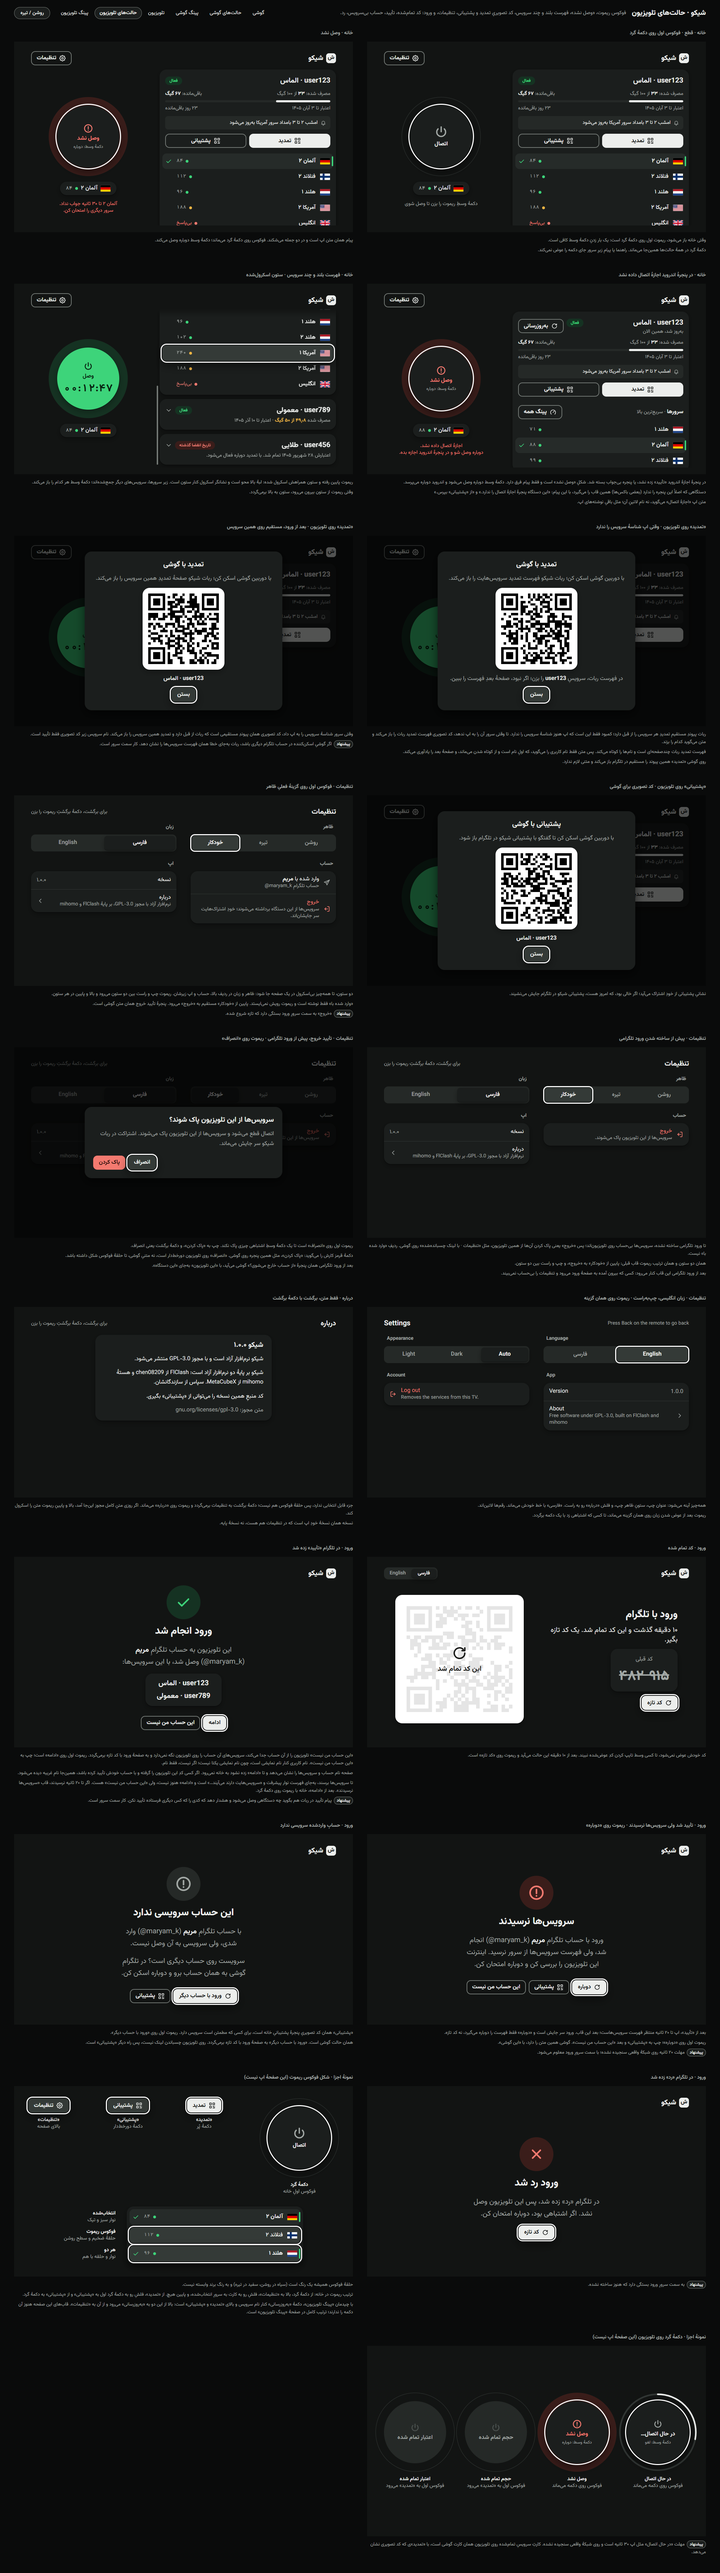
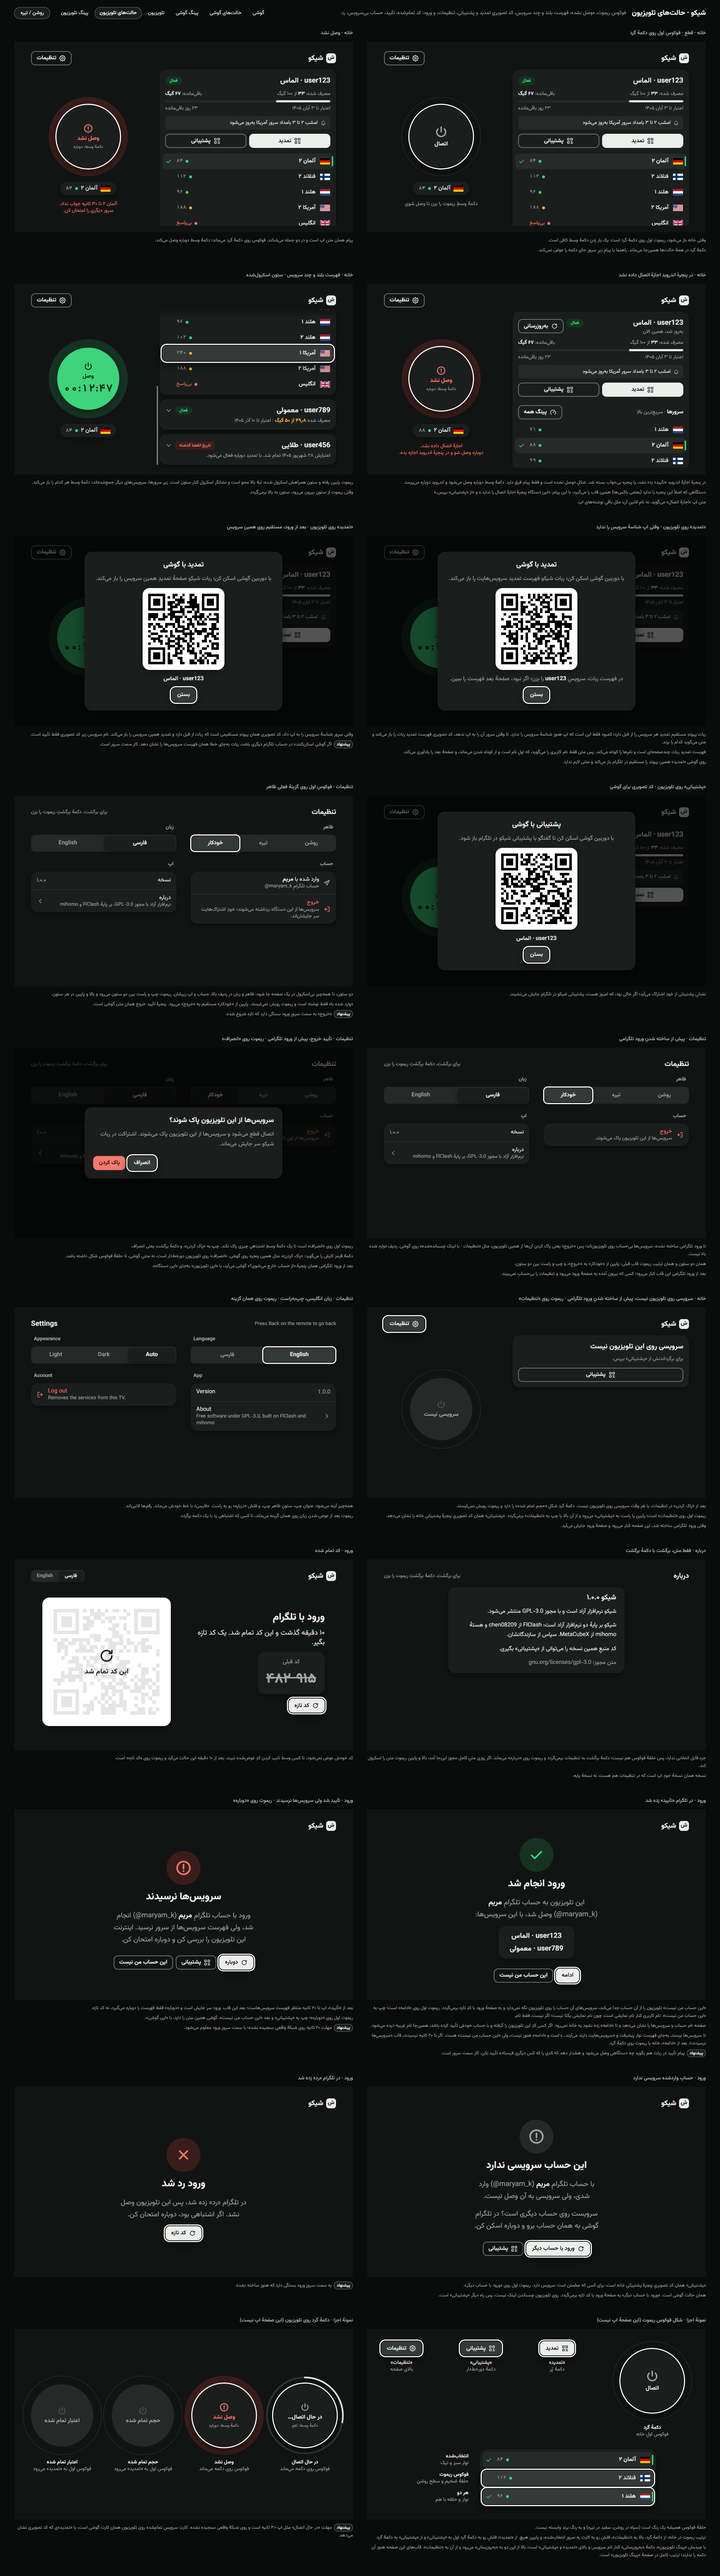
docs(design): draw the TV home with no service before Telegram login
Round eight's built app showed an enabled connect button with nothing
to connect after the services were removed, and there was no frame to
fix it against.

The new frame: the round button is disabled in the "data used up"
shape and says there is no service, the remote starts on settings, a
card tells the customer to ask support to bring the service back, and
its support button opens the same QR as the home support sheet. Once
Telegram login exists this screen gives way to the login screen.

diff --git a/design/mockups/tv-states.html b/design/mockups/tv-states.html
@@ -594,6 +594,43 @@
     <p class="note">بعد از ورود تلگرامی همان پنجرهٔ «از حساب خارج میشوی؟» گوشی میآید، با «این تلویزیون» بهجای «این دستگاه».</p>
   </figure>
 
+  <!-- خانه بیسرویس، پیش از ورود تلگرامی -->
+  <figure class="shot">
+    <figcaption>خانه · سرویسی روی تلویزیون نیست، پیش از ساخته شدنِ ورود تلگرامی · ریموت روی «تنظیمات»</figcaption>
+    <div class="tv" data-device="tv" data-frame="tv-home-no-service">
+      <header class="tv-top">
+        <div class="brand"><span class="mark">ش</span><span>شیکو</span></div>
+        <button class="btn btn-outline is-focused" type="button"><svg class="icon"><use href="#i-gear"/></svg>تنظیمات</button>
+      </header>
+      <div class="tv-home">
+        <div class="tv-col">
+          <div class="tv-col-content">
+            <article class="card svc">
+              <header class="svc-head">
+                <h2 class="svc-name">سرویسی روی این تلویزیون نیست</h2>
+              </header>
+              <p class="state-msg">برای برگرداندنش از «پشتیبانی» بپرس.</p>
+              <div class="actions">
+                <button class="btn btn-outline" type="button"><svg class="icon"><use href="#i-qr"/></svg>پشتیبانی</button>
+              </div>
+            </article>
+          </div>
+        </div>
+        <section class="tv-power is-disabled">
+          <div class="power-ring">
+            <div class="power" aria-disabled="true">
+              <svg class="icon"><use href="#i-power"/></svg>
+              <span class="power-label">سرویسی نیست</span>
+            </div>
+          </div>
+        </section>
+      </div>
+    </div>
+    <p class="note">بعد از «پاک کردن» در تنظیمات، یا هر وقت سرویسی روی تلویزیون نیست. دکمهٔ گرد شکلِ «حجم تمام شده» را دارد و ریموت رویش نمیایستد.</p>
+    <p class="note">ریموت اول روی «تنظیمات» است؛ پایین یا راست به «پشتیبانی» میرود و از آن بالا یا چپ به «تنظیمات» برمیگردد. «پشتیبانی» همان کد تصویریِ پنجرهٔ پشتیبانیِ خانه را نشان میدهد.</p>
+    <p class="note">وقتی ورود تلگرامی ساخته شد، این صفحه کنار میرود و صفحهٔ ورود جایش میآید.</p>
+  </figure>
+
   <!-- تنظیمات تلویزیون به انگلیسی -->
   <figure class="shot">
     <figcaption>تنظیمات · زبان انگلیسی، چپبهراست · ریموت روی همان گزینه</figcaption>
